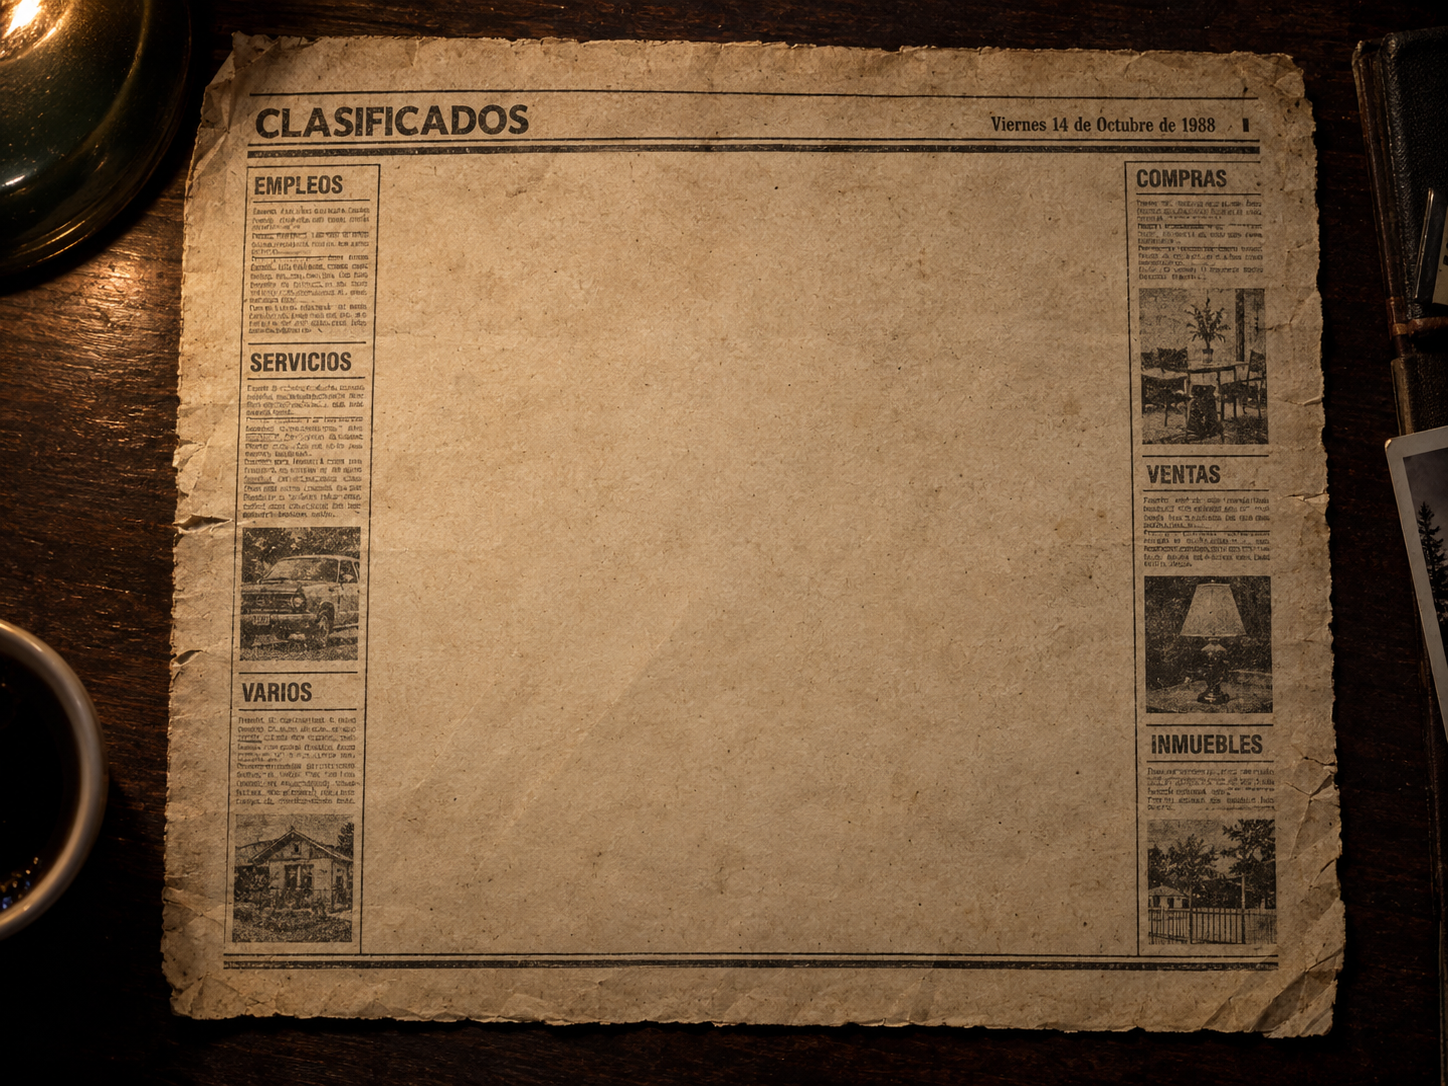
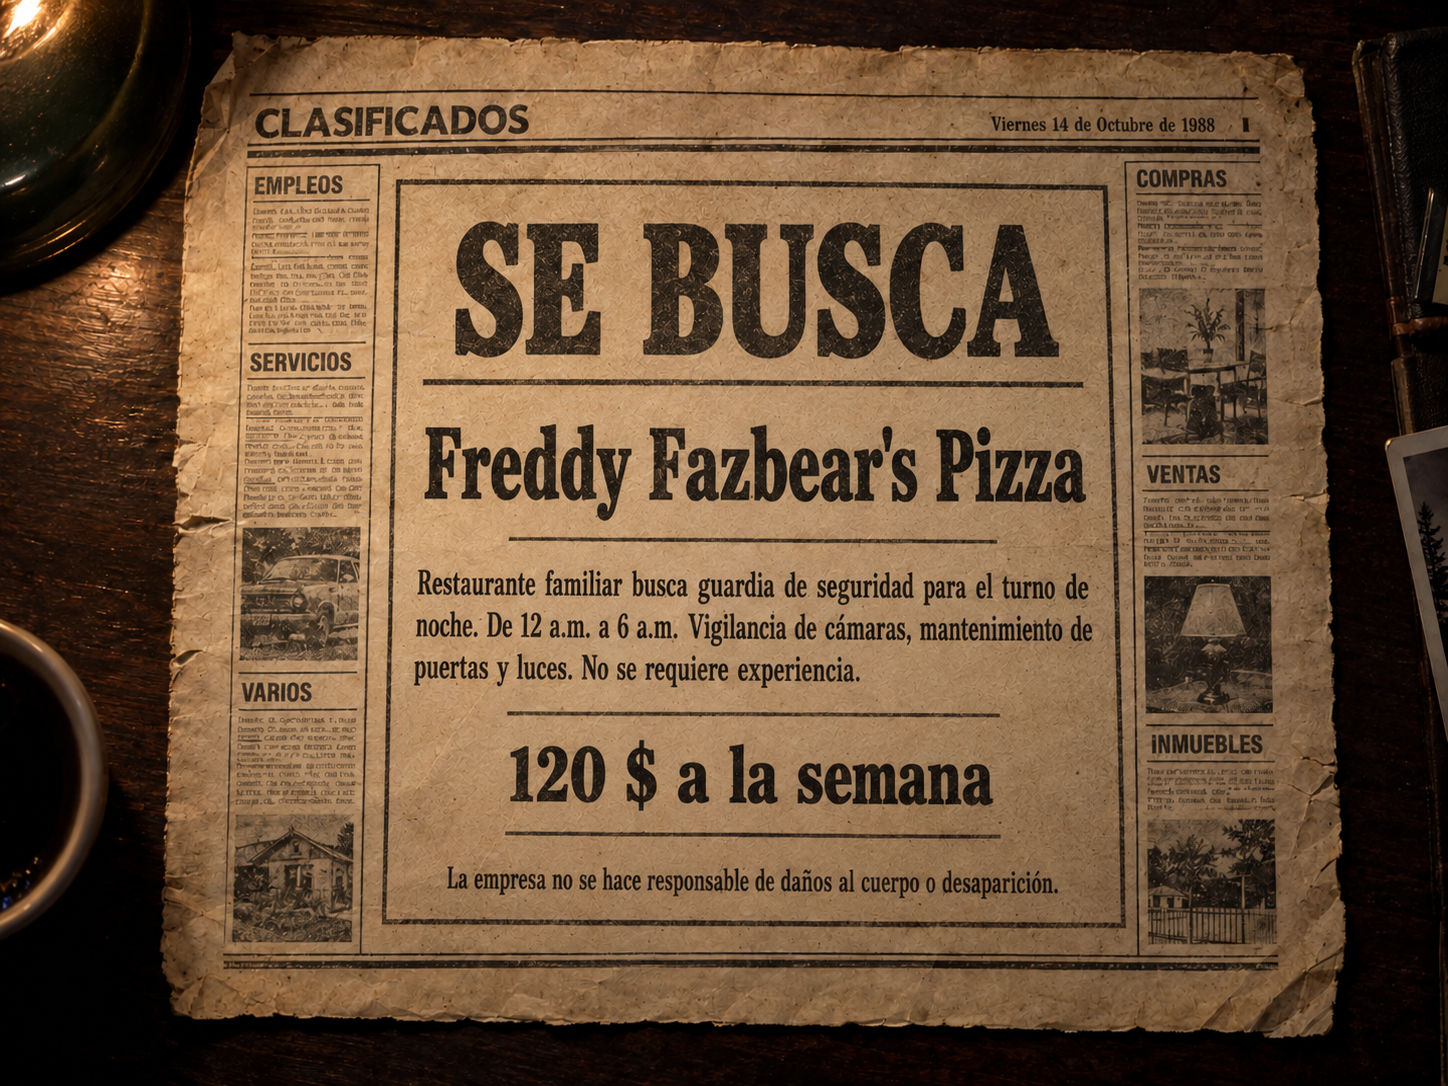
Periódico sin texto e imágenes de oficina por capas
- El periódico usa sólo la imagen (periodico-inicio.png); se quita el
  texto superpuesto y queda la pista de "clic para continuar".
- Oficina renderizada con las 5 imágenes de assets/.../sala-seguridad:
  base + puerta izq/der cerrada + luz izq/der encendida, superpuestas y
  conmutadas por estado. Se retira el dibujo CSS de sala/mesa/ventilador.
- Precarga de las capas de oficina junto a los fondos de cámara.

diff --git a/css/style.css b/css/style.css
@@ -68,6 +68,37 @@ html, body {
    ================================================================ */
 #scene-menu { background: radial-gradient(circle at 62% 42%, #1c1116 0%, #050505 72%); }
 
+.menu-dogo {
+  position: absolute;
+  right: 2%;
+  bottom: -21%;
+  width: 52%;
+  height: 122%;
+  overflow: hidden;
+  pointer-events: none;
+  opacity: 0.72;
+  filter: brightness(0.42) contrast(1.35) saturate(0.7)
+    drop-shadow(-2vw 0 3vw rgba(120, 0, 20, 0.2));
+}
+.menu-dogo::after {
+  content: "";
+  position: absolute;
+  inset: 0;
+  background: linear-gradient(90deg, #050505 0%, transparent 38%, rgba(0, 0, 0, 0.2));
+}
+.menu-dogo img {
+  width: 100%;
+  height: 100%;
+  object-fit: contain;
+  object-position: center bottom;
+  animation: dogo-menu-flicker 5s steps(1) infinite;
+}
+@keyframes dogo-menu-flicker {
+  0%, 94%, 100% { opacity: 1; transform: translateX(0); }
+  95% { opacity: 0.45; transform: translateX(-3px); }
+  96% { opacity: 0.85; transform: translateX(2px); }
+}
+
 .sound-toggle {
   position: absolute;
   top: 2.5%;
@@ -248,34 +279,20 @@ html, body {
    PERIODICO
    ================================================================ */
 #scene-news {
-  background: #111 url("../assets/escenarios/periodico-inicio.png") center / cover no-repeat;
+  background: #0a0a0a url("../assets/escenarios/periodico-inicio.png") center / contain no-repeat;
 }
 .newspaper {
   position: absolute;
   inset: 0;
-  margin: auto;
-  width: 62%;
-  height: 82%;
-  background: rgba(207, 199, 179, 0.2);
-  color: #17140f;
-  padding: 3.5%;
-  font-family: "Times New Roman", Georgia, serif;
-  box-shadow: 0 0 60px #000 inset, 0 0 40px #000;
-  transform: rotate(-1.2deg);
-  filter: sepia(0.35) contrast(1.05);
   cursor: pointer;
 }
-.newspaper h1 { font-size: 5vw; text-align: center; letter-spacing: 4px; border-bottom: 3px double #17140f; padding-bottom: 1vw; }
-.newspaper .lead { font-size: 2.6vw; font-weight: 700; text-align: center; margin: 1.5vw 0; }
-.newspaper p { font-size: 1.7vw; line-height: 1.5; margin-bottom: 1vw; text-align: justify; }
-.newspaper .pay { font-size: 2.2vw; font-weight: 700; text-align: center; }
-.newspaper .small { font-size: 1.2vw; font-style: italic; color: #443; }
 .newspaper .hint {
   position: absolute; bottom: 3%; left: 0; width: 100%; text-align: center;
-  font-family: Consolas, monospace; font-size: 1.2vw; color: #665;
+  font-family: Consolas, monospace; font-size: 1.2vw; color: #cfc3a4;
+  text-shadow: 0 0 8px #000, 0 0 3px #000;
   animation: blink 1s steps(1) infinite;
 }
-@keyframes blink { 50% { opacity: 0.2; } }
+@keyframes blink { 50% { opacity: 0.25; } }
 
 /* ================================================================
    INTRO DE NOCHE
@@ -297,76 +314,23 @@ html, body {
    OFICINA
    ================================================================ */
 #scene-office { background: #000; }
-.office-view { position: absolute; inset: 0; overflow: hidden; }
-.office-room {
+.office-view { position: absolute; inset: 0; overflow: hidden; background: #000; }
+
+/* Capas de imagen de la oficina: base + puertas cerradas + luces */
+.office-layers { position: absolute; inset: 0; transition: filter 0.4s; }
+.office-layer {
   position: absolute; inset: 0;
-  background:
-    radial-gradient(ellipse at 50% 120%, rgba(120, 90, 60, 0.25), transparent 60%),
-    linear-gradient(#2a201a 0%, #120d0a 55%, #060403 100%);
-  transition: filter 0.4s;
-}
-.wall-light {
-  position: absolute; left: 25%; right: 25%; top: 0; height: 55%;
-  background: radial-gradient(ellipse at 50% 0%, rgba(255, 210, 150, 0.10), transparent 70%);
+  width: 100%; height: 100%;
+  object-fit: cover; object-position: center;
+  opacity: 0;
+  transition: opacity 0.1s linear;
   pointer-events: none;
+  user-select: none;
 }
-#scene-office.blackout .office-room { filter: brightness(0.05) contrast(1.4); }
-#scene-office.blackout .wall-light { display: none; }
+#ofc-base { opacity: 1; }
+.office-layer.on { opacity: 1; }
 
-.office-room .desk {
-  position: absolute; left: 50%; bottom: 0; width: 52%; height: 27%;
-  transform: translateX(-50%);
-  background: linear-gradient(#3a2b20, #180f0a);
-  border-top: 3px solid #4c3a2c;
-  border-radius: 42% 42% 0 0 / 32% 32% 0 0;
-}
-.desk-fan {
-  position: absolute; left: 14%; top: -32%; width: 16%; aspect-ratio: 1;
-}
-.desk-fan .fan-blades {
-  position: absolute; inset: 0; border-radius: 50%;
-  background: conic-gradient(#5a5a5a 0 25%, #2a2a2a 0 50%, #5a5a5a 0 75%, #2a2a2a 0);
-  animation: spin 0.12s linear infinite;
-  box-shadow: 0 0 0 3px #333, inset 0 0 12px #000;
-}
-.desk-fan::after {
-  content: ""; position: absolute; left: 46%; bottom: -60%; width: 8%; height: 70%;
-  background: #333;
-}
-#scene-office.blackout .fan-blades { animation-play-state: paused; }
-@keyframes spin { to { transform: rotate(360deg); } }
-.desk-tablet {
-  position: absolute; right: 16%; top: -8%; width: 22%; height: 46%;
-  background: linear-gradient(#101010, #1c1c1c);
-  border: 2px solid #333; border-radius: 3px;
-}
-
-.office-room .poster {
-  position: absolute; left: 50%; top: 17%; transform: translateX(-50%) rotate(-2deg);
-  width: 12%; aspect-ratio: 3 / 4;
-  background: #6d1414; color: #ffd24a;
-  display: flex; align-items: center; justify-content: center;
-  font-size: 1.1vw; text-align: center; border: 4px solid #2a0d0d;
-}
-
-.office-room .door {
-  position: absolute; top: 0; width: 16%; height: 100%;
-  background: linear-gradient(#1c1512, #0a0706);
-}
-.office-room .door-left { left: 0; box-shadow: inset -22px 0 44px #000; }
-.office-room .door-right { right: 0; box-shadow: inset 22px 0 44px #000; }
-.door .door-slats {
-  position: absolute; inset: 0; opacity: 0;
-  background: repeating-linear-gradient(#242424 0 14px, #141414 14px 28px);
-  transition: opacity 0.12s;
-}
-.office-room .door.closed .door-slats { opacity: 1; }
-.office-room .door.lit { background: linear-gradient(#3c342d, #221b15); }
-
-.hall { position: absolute; top: 8%; height: 84%; width: 16%; pointer-events: none; opacity: 0; transition: opacity 0.1s; }
-.hall-left { left: 0; background: linear-gradient(90deg, rgba(255,220,170,0.16), transparent); }
-.hall-right { right: 0; background: linear-gradient(270deg, rgba(255,220,170,0.16), transparent); }
-.hall.on { opacity: 1; }
+#scene-office.blackout .office-layers { filter: brightness(0.05) contrast(1.4); }
 
 /* HUD */
 .hud { position: absolute; z-index: 500; pointer-events: none; inset: 0; }

diff --git a/index.html b/index.html
@@ -15,6 +15,10 @@
     <section id="scene-menu" class="scene active">
       <button class="sound-toggle" id="sound-toggle" title="Sonido">&#128266;</button>
 
+      <div class="menu-dogo" aria-hidden="true">
+        <img src="assets/personajes/DOGO/dogo-elenco.png" alt="" />
+      </div>
+
       <div class="menu-title">
         <span class="line small">Five Nights at</span>
         <span class="line big">Freddy's</span>
@@ -75,19 +79,9 @@
     </section>
 
     <!-- ============ RECORTE DE PERIODICO ============ -->
+    <!-- El texto va en la propia imagen (periodico-inicio.png). -->
     <section id="scene-news" class="scene">
       <div class="newspaper">
-        <h1>SE BUSCA</h1>
-        <p class="lead">Freddy Fazbear's Pizza</p>
-        <p>
-          Restaurante familiar busca guardia de seguridad para el turno de
-          noche. De 12&nbsp;a.m. a 6&nbsp;a.m. Vigilancia de cámaras,
-          mantenimiento de puertas y luces. No se requiere experiencia.
-        </p>
-        <p class="pay">120&nbsp;$ a la semana</p>
-        <p class="small">
-          La empresa no se hace responsable de daños al cuerpo o desaparición.
-        </p>
         <p class="hint">[ Clic para continuar ]</p>
       </div>
     </section>
@@ -103,19 +97,17 @@
     <!-- ============ OFICINA ============ -->
     <section id="scene-office" class="scene">
       <div class="office-view" id="office-view">
-        <div class="office-room">
-          <div class="wall-light"></div>
-          <div class="door door-left" id="door-left"><span class="door-slats"></span></div>
-          <div class="door door-right" id="door-right"><span class="door-slats"></span></div>
-          <div class="hall hall-left" id="hall-left"></div>
-          <div class="hall hall-right" id="hall-right"></div>
-          <div class="poster" id="office-poster">
-            <span>¡Celebra!</span>
-          </div>
-          <div class="desk">
-            <div class="desk-fan"><span class="fan-blades"></span></div>
-            <div class="desk-tablet"></div>
-          </div>
+        <div class="office-layers">
+          <img class="office-layer" id="ofc-base"
+               src="assets/escenarios/sala-seguridad/oficina-base.png" alt="" />
+          <img class="office-layer" id="ofc-door-left"
+               src="assets/escenarios/sala-seguridad/puerta-izquierda-cerrada.png" alt="" />
+          <img class="office-layer" id="ofc-door-right"
+               src="assets/escenarios/sala-seguridad/puerta-derecha-cerrada.png" alt="" />
+          <img class="office-layer" id="ofc-light-left"
+               src="assets/escenarios/sala-seguridad/luz-izquierda-encendida.png" alt="" />
+          <img class="office-layer" id="ofc-light-right"
+               src="assets/escenarios/sala-seguridad/luz-derecha-encendida.png" alt="" />
         </div>
       </div>
 

diff --git a/js/game.js b/js/game.js
@@ -99,12 +99,22 @@
   var lastTs = 0;
   var camDownSince = 0;
 
-  // Precarga de los fondos de cámara para que el cambio no parpadee.
-  (function preloadCams() {
+  // Precarga de imágenes (cámaras + capas de la oficina) para que no
+  // parpadeen al mostrarse por primera vez.
+  (function preloadImages() {
+    var urls = [];
     C.CAMS.forEach(function (cam) {
-      if (!cam.background) return;
+      if (cam.background) urls.push(cam.background);
+    });
+    urls.push(
+      "assets/escenarios/sala-seguridad/puerta-izquierda-cerrada.png",
+      "assets/escenarios/sala-seguridad/puerta-derecha-cerrada.png",
+      "assets/escenarios/sala-seguridad/luz-izquierda-encendida.png",
+      "assets/escenarios/sala-seguridad/luz-derecha-encendida.png"
+    );
+    urls.forEach(function (u) {
       var img = new Image();
-      img.src = cam.background;
+      img.src = u;
     });
   })();
 
@@ -422,13 +432,12 @@
      PUERTAS Y LUCES
      --------------------------------------------------------------- */
   function syncDoors() {
-    var dl = $("door-left"), dr = $("door-right");
-    dl.classList.toggle("closed", state.doorLeft);
-    dr.classList.toggle("closed", state.doorRight);
-    dl.classList.toggle("lit", state.lightLeft && !state.doorLeft);
-    dr.classList.toggle("lit", state.lightRight && !state.doorRight);
-    $("hall-left").classList.toggle("on", state.lightLeft && !state.doorLeft);
-    $("hall-right").classList.toggle("on", state.lightRight && !state.doorRight);
+    // capas de imagen de la oficina
+    $("ofc-door-left").classList.toggle("on", state.doorLeft);
+    $("ofc-door-right").classList.toggle("on", state.doorRight);
+    $("ofc-light-left").classList.toggle("on", state.lightLeft && !state.doorLeft);
+    $("ofc-light-right").classList.toggle("on", state.lightRight && !state.doorRight);
+    // estado de los botones
     $("btn-left-door").classList.toggle("active", state.doorLeft);
     $("btn-right-door").classList.toggle("active", state.doorRight);
     $("btn-left-light").classList.toggle("active", state.lightLeft);
